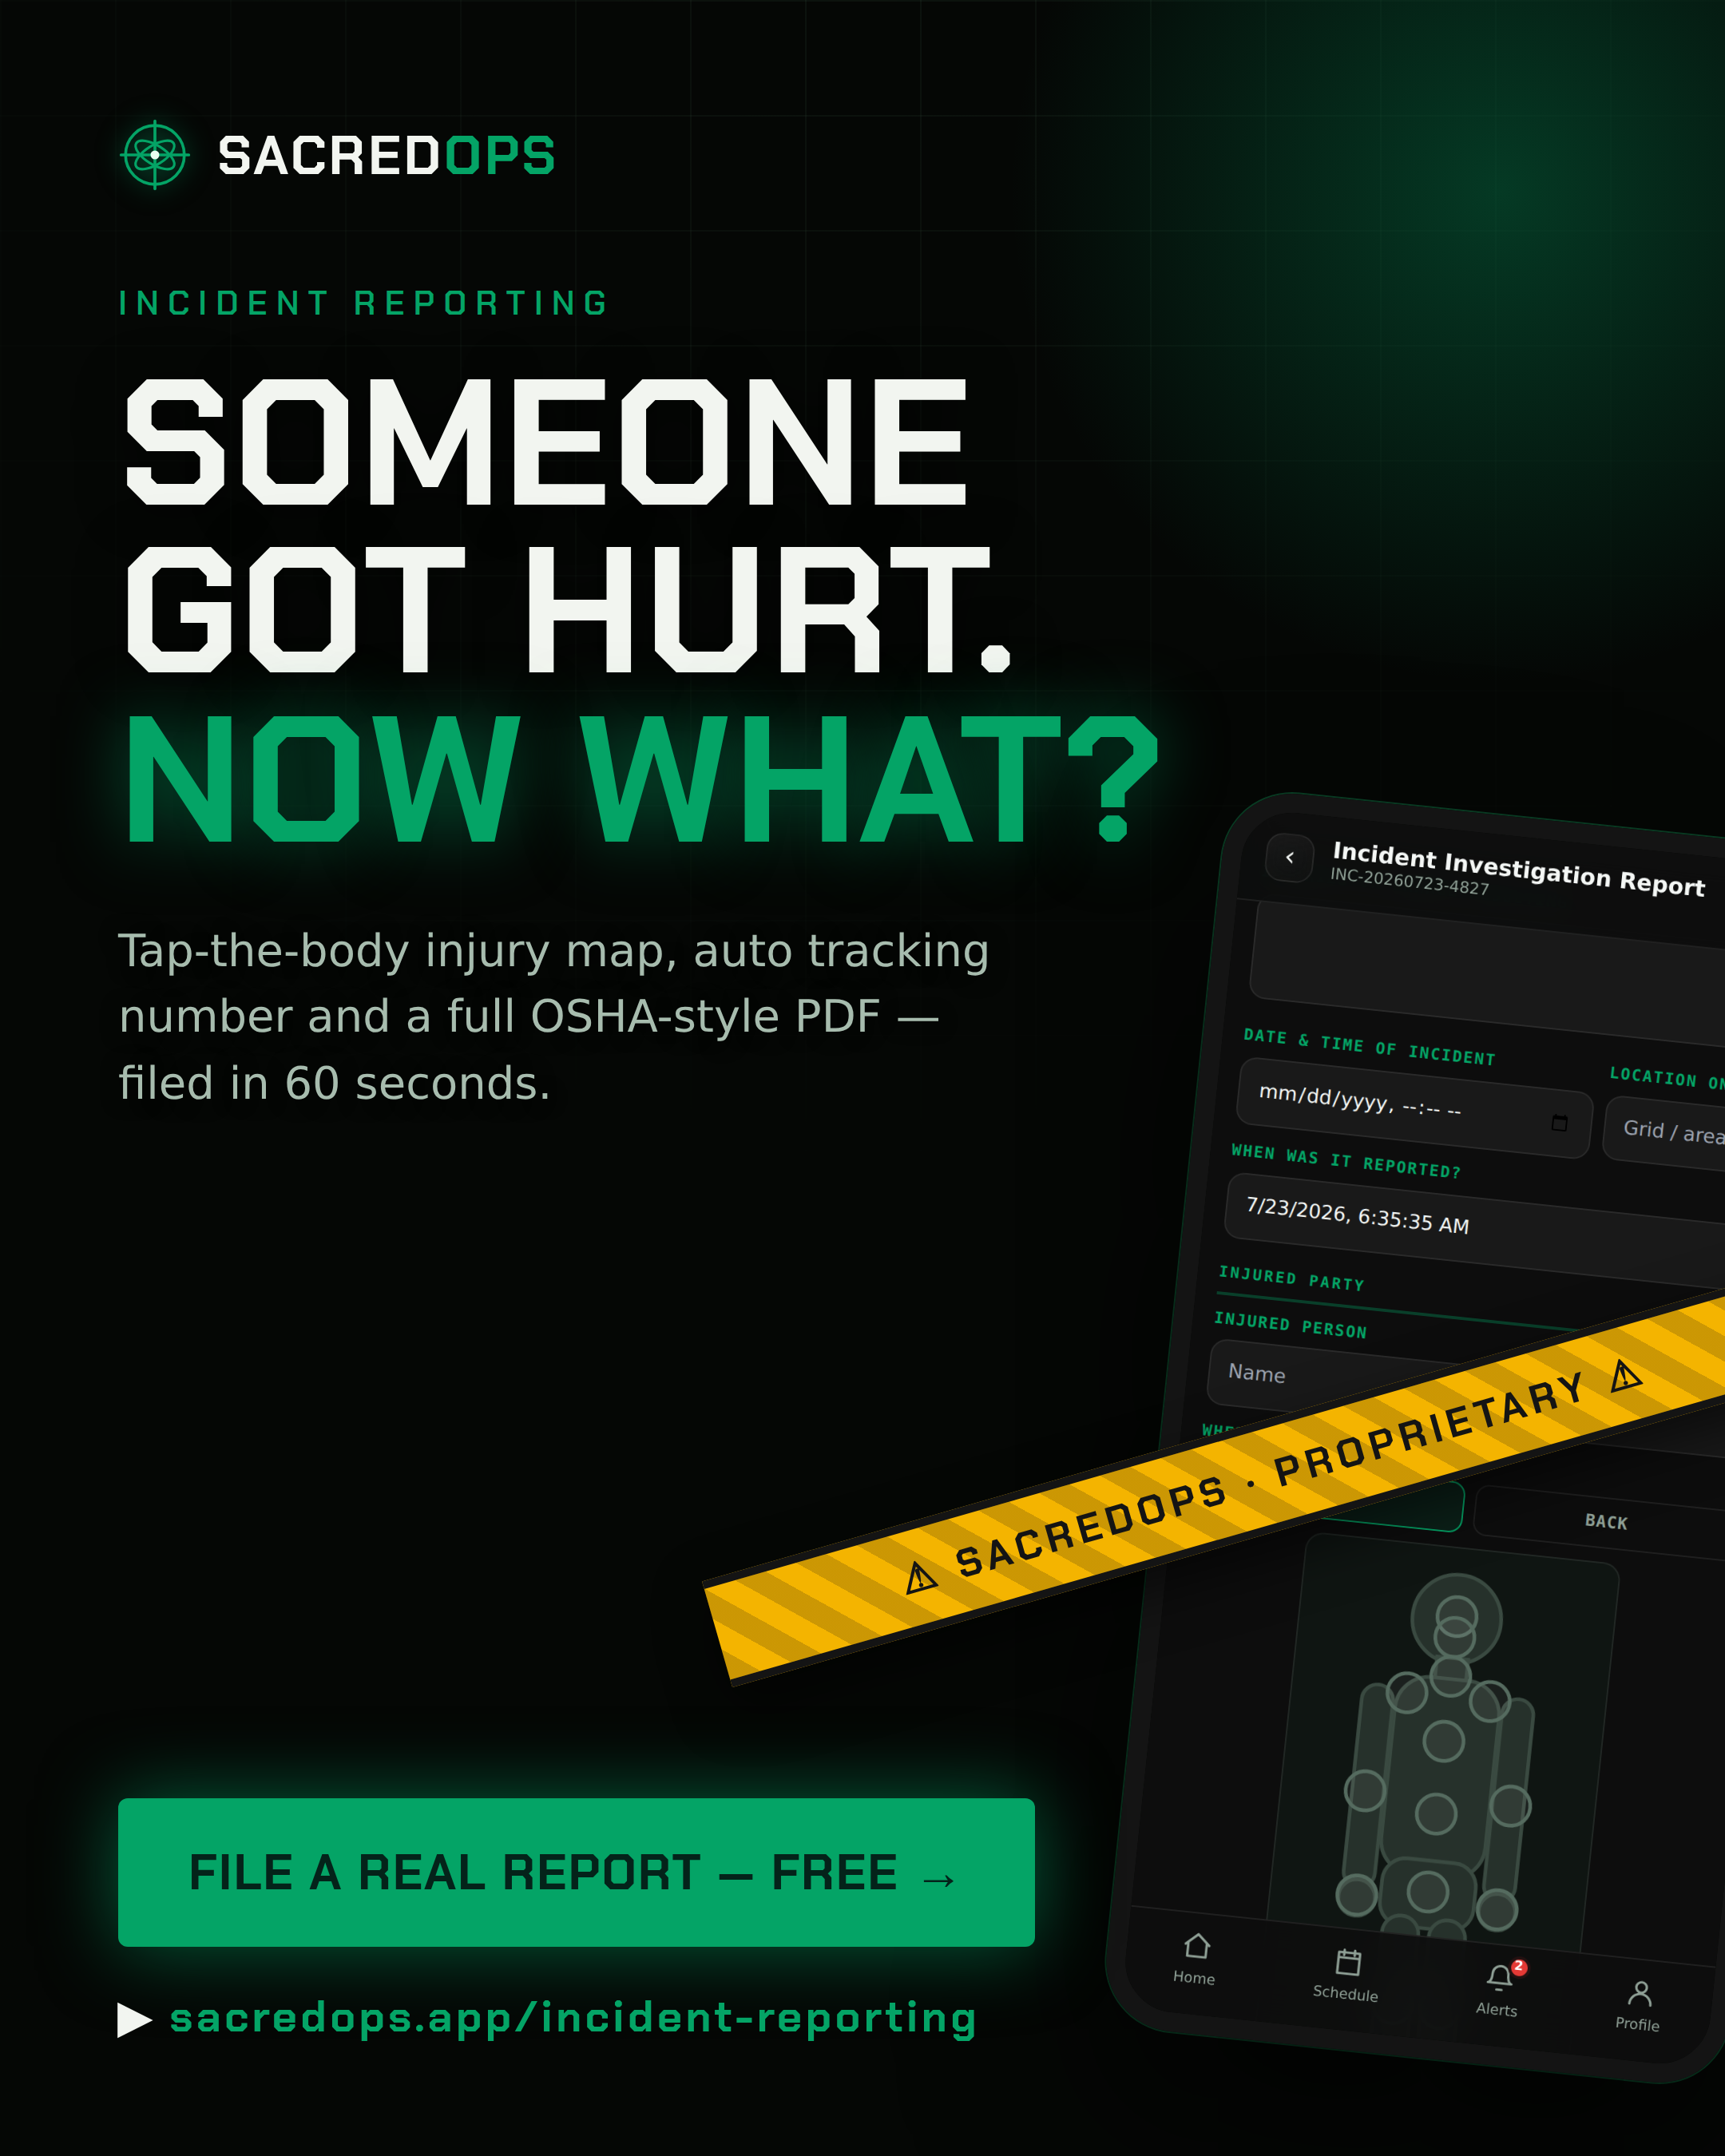
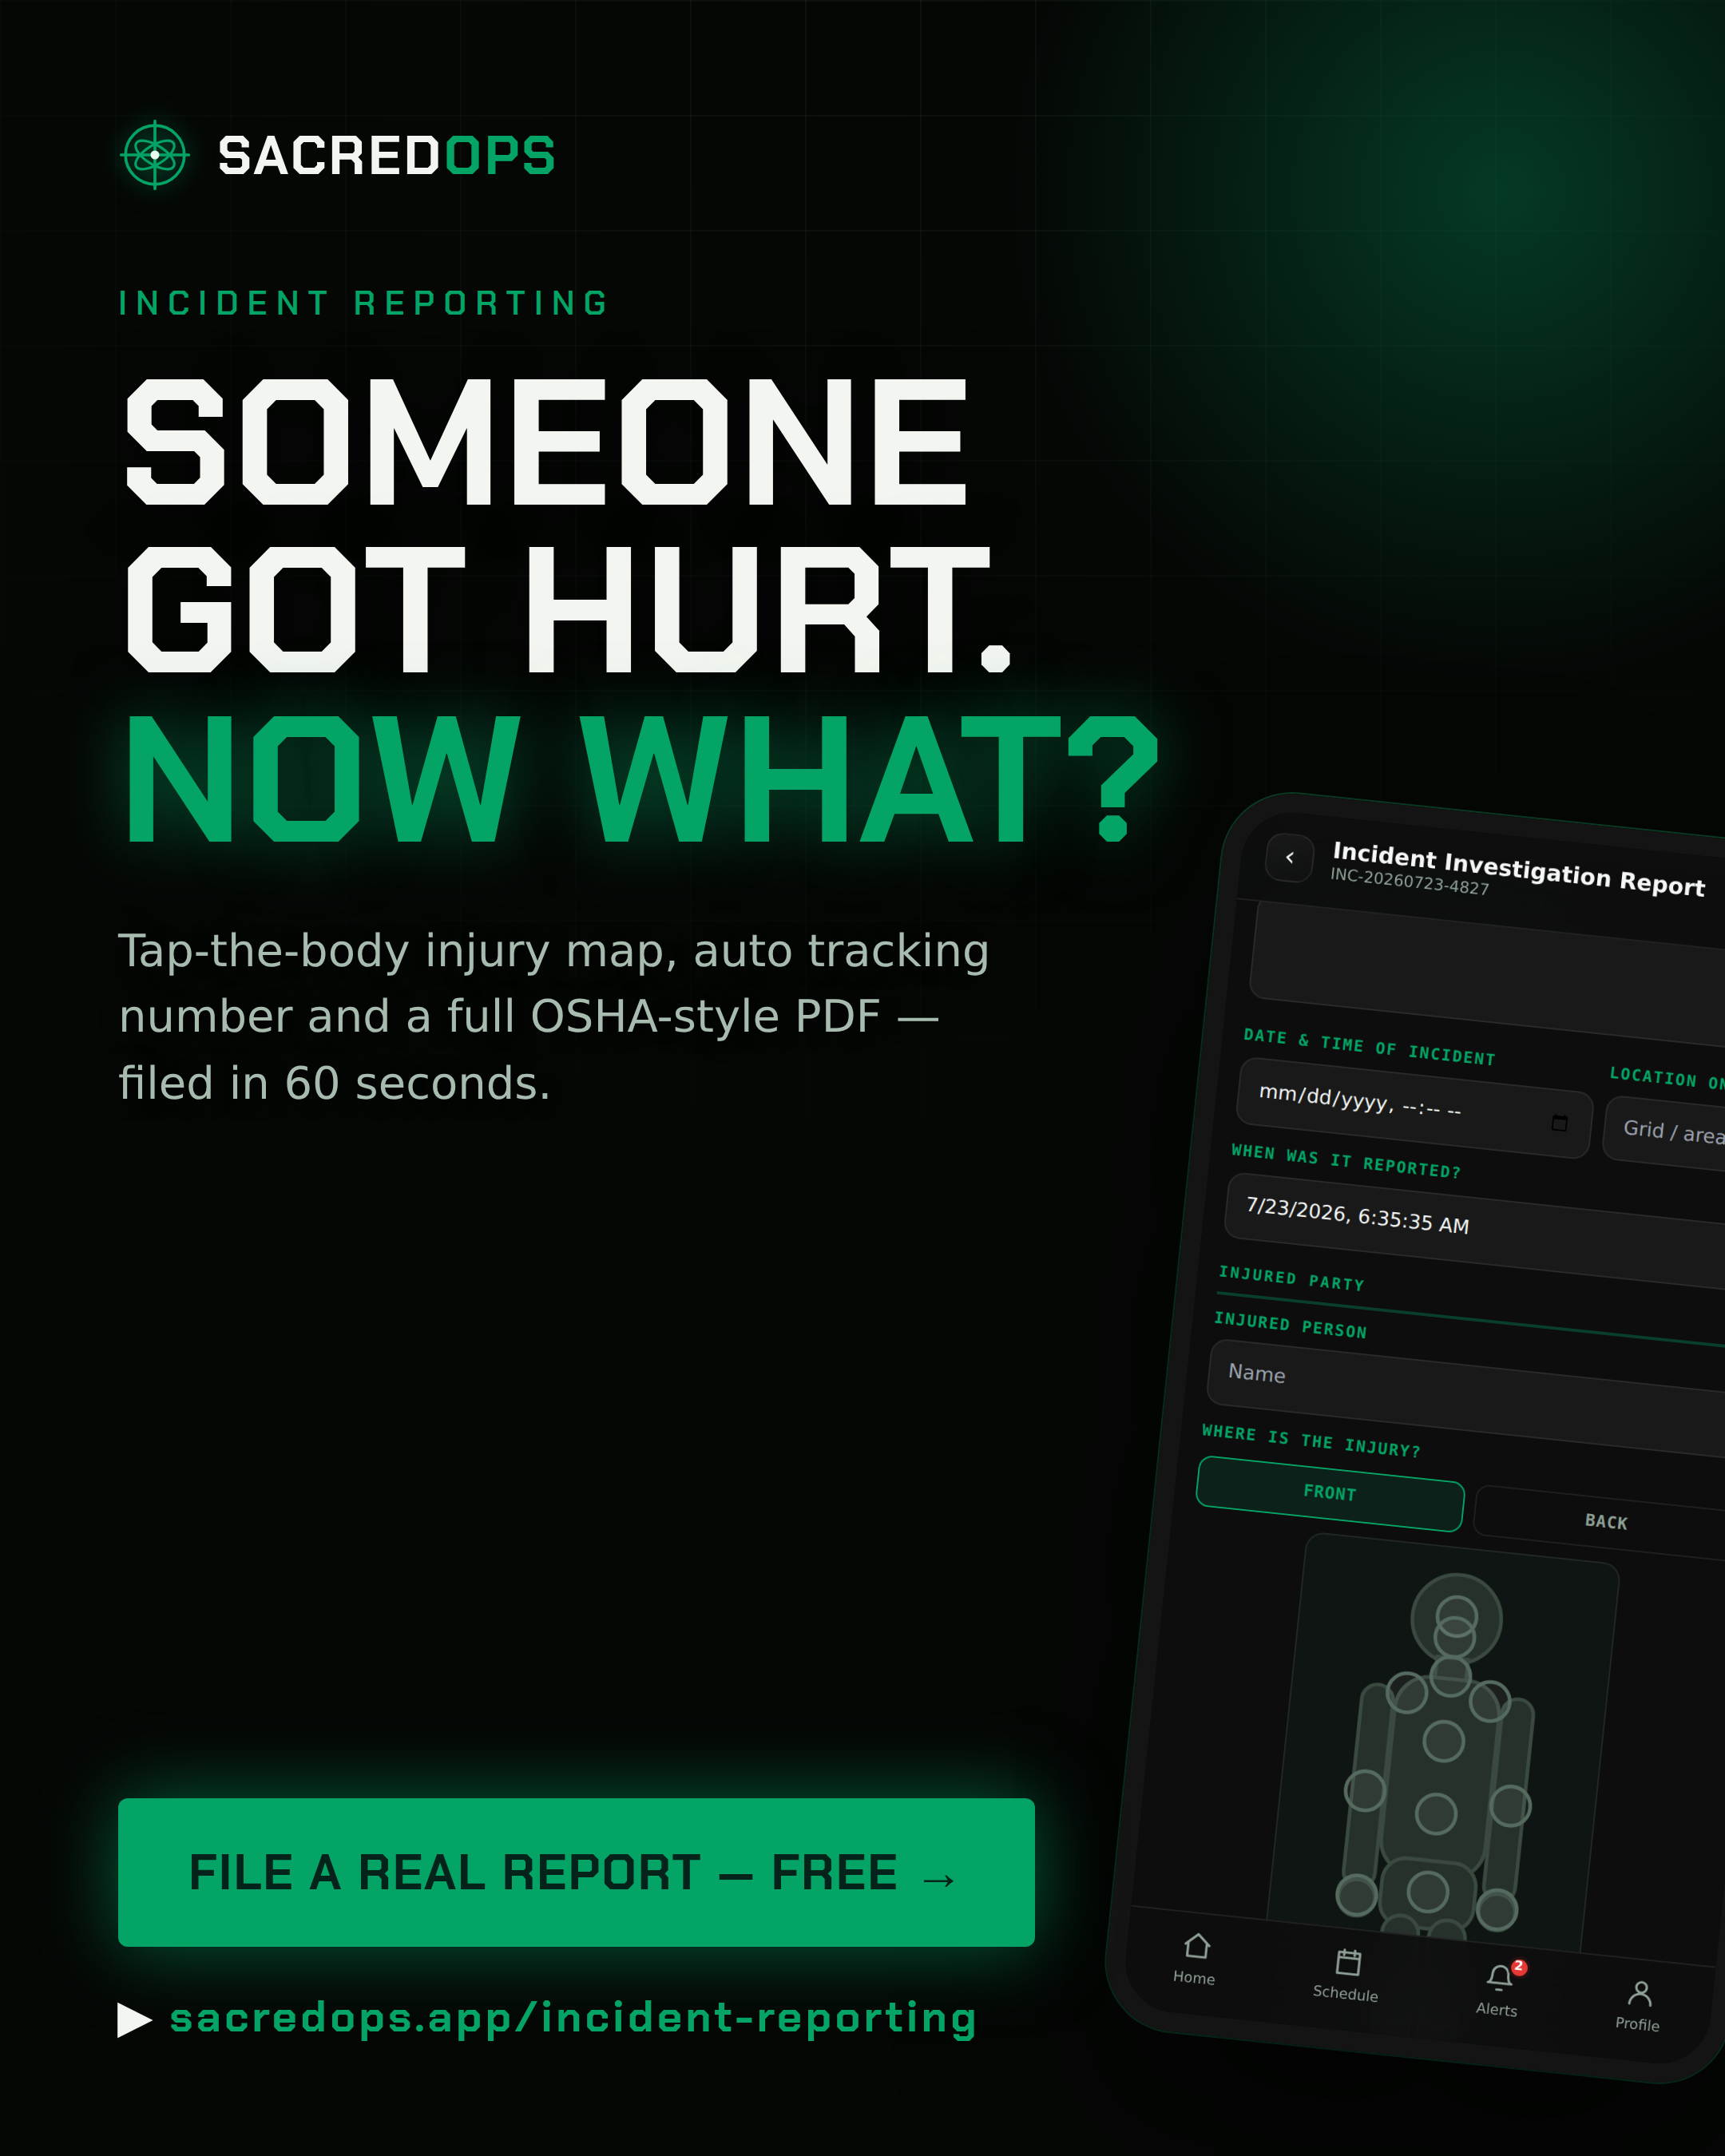
marketing: remove caution-tape treatment everywhere
Drop the yellow/black 'Proprietary' caution-tape band from the site and
campaign-page screenshots and from the three ad creatives (regenerated
clean). Screenshots and the 'Try the live demo' chip remain.

Claude-Session: https://claude.ai/code/session_01FV7pzNdypq4hcmGjEeV6JE

Changed region(s): [[0.4032, 0.5911, 1.0, 0.7778]]

diff --git a/public/StIsidore.html b/public/StIsidore.html
@@ -117,13 +117,6 @@
   .shot.lift{transform:translateY(22px)}
   @media(max-width:880px){.shot.lift{transform:none}}
   .shot .phone-shot{transform:none}
-  .shot-tape{position:absolute;top:41%;left:-18%;right:-18%;z-index:3;transform:rotate(-11deg);
-    background:#f4b400;color:#141414;font-family:var(--display);font-weight:800;font-size:11px;
-    letter-spacing:.12em;text-transform:uppercase;white-space:nowrap;overflow:hidden;text-align:center;
-    padding:7px 0;pointer-events:none;
-    box-shadow:0 8px 22px rgba(0,0,0,.55);
-    border-top:3px solid #141414;border-bottom:3px solid #141414;
-    background-image:repeating-linear-gradient(45deg,rgba(20,20,20,.16) 0 9px,transparent 9px 18px)}
   .shot-more{position:absolute;left:7px;right:7px;bottom:7px;z-index:2;border-radius:0 0 20px 20px;
     padding:60px 10px 14px;text-decoration:none;
     background:linear-gradient(to top,rgba(13,13,13,.97) 34%,rgba(13,13,13,0));
@@ -479,12 +472,10 @@ src="https://www.facebook.com/tr?id=1573862441061857&ev=PageView&noscript=1"/></
       <div class="phones">
         <span class="shot">
           <img class="phone-shot" src="/shots/sup-home.png" alt="SacredOps supervisor dashboard — live projects and compliance" loading="lazy" width="224">
-          <span class="shot-tape" aria-hidden="true">⚠ Proprietary · SacredOps ⚠</span>
           <a class="shot-more" href="https://demo.sacredops.app/">🔒 See it live in the demo →</a>
         </span>
         <span class="shot lift">
           <img class="phone-shot" src="/shots/sup-training.png" alt="SacredOps training tracker — worker certifications and expirations" loading="lazy" width="224">
-          <span class="shot-tape" aria-hidden="true">⚠ Proprietary · SacredOps ⚠</span>
           <a class="shot-more" href="https://demo.sacredops.app/">🔒 See it live in the demo →</a>
         </span>
       </div>
@@ -520,12 +511,10 @@ src="https://www.facebook.com/tr?id=1573862441061857&ev=PageView&noscript=1"/></
       <div class="phones">
         <span class="shot">
           <img class="phone-shot" src="/shots/wrk-home.png" alt="SacredOps worker portal home" loading="lazy" width="224">
-          <span class="shot-tape" aria-hidden="true">⚠ Proprietary · SacredOps ⚠</span>
           <a class="shot-more" href="https://demo.sacredops.app/">🔒 See it live in the demo →</a>
         </span>
         <span class="shot lift">
           <img class="phone-shot" src="/shots/wrk-incident.png" alt="SacredOps worker incident report with body diagram" loading="lazy" width="224">
-          <span class="shot-tape" aria-hidden="true">⚠ Proprietary · SacredOps ⚠</span>
           <a class="shot-more" href="https://demo.sacredops.app/">🔒 See it live in the demo →</a>
         </span>
       </div>

diff --git a/public/StMichael.html b/public/StMichael.html
@@ -117,13 +117,6 @@
   .shot.lift{transform:translateY(22px)}
   @media(max-width:880px){.shot.lift{transform:none}}
   .shot .phone-shot{transform:none}
-  .shot-tape{position:absolute;top:41%;left:-18%;right:-18%;z-index:3;transform:rotate(-11deg);
-    background:#f4b400;color:#141414;font-family:var(--display);font-weight:800;font-size:11px;
-    letter-spacing:.12em;text-transform:uppercase;white-space:nowrap;overflow:hidden;text-align:center;
-    padding:7px 0;pointer-events:none;
-    box-shadow:0 8px 22px rgba(0,0,0,.55);
-    border-top:3px solid #141414;border-bottom:3px solid #141414;
-    background-image:repeating-linear-gradient(45deg,rgba(20,20,20,.16) 0 9px,transparent 9px 18px)}
   .shot-more{position:absolute;left:7px;right:7px;bottom:7px;z-index:2;border-radius:0 0 20px 20px;
     padding:60px 10px 14px;text-decoration:none;
     background:linear-gradient(to top,rgba(13,13,13,.97) 34%,rgba(13,13,13,0));
@@ -479,12 +472,10 @@ src="https://www.facebook.com/tr?id=1573862441061857&ev=PageView&noscript=1"/></
       <div class="phones">
         <span class="shot">
           <img class="phone-shot" src="/shots/sup-home.png" alt="SacredOps supervisor dashboard — live projects and compliance" loading="lazy" width="224">
-          <span class="shot-tape" aria-hidden="true">⚠ Proprietary · SacredOps ⚠</span>
           <a class="shot-more" href="https://demo.sacredops.app/">🔒 See it live in the demo →</a>
         </span>
         <span class="shot lift">
           <img class="phone-shot" src="/shots/sup-training.png" alt="SacredOps training tracker — worker certifications and expirations" loading="lazy" width="224">
-          <span class="shot-tape" aria-hidden="true">⚠ Proprietary · SacredOps ⚠</span>
           <a class="shot-more" href="https://demo.sacredops.app/">🔒 See it live in the demo →</a>
         </span>
       </div>
@@ -520,12 +511,10 @@ src="https://www.facebook.com/tr?id=1573862441061857&ev=PageView&noscript=1"/></
       <div class="phones">
         <span class="shot">
           <img class="phone-shot" src="/shots/wrk-home.png" alt="SacredOps worker portal home" loading="lazy" width="224">
-          <span class="shot-tape" aria-hidden="true">⚠ Proprietary · SacredOps ⚠</span>
           <a class="shot-more" href="https://demo.sacredops.app/">🔒 See it live in the demo →</a>
         </span>
         <span class="shot lift">
           <img class="phone-shot" src="/shots/wrk-incident.png" alt="SacredOps worker incident report with body diagram" loading="lazy" width="224">
-          <span class="shot-tape" aria-hidden="true">⚠ Proprietary · SacredOps ⚠</span>
           <a class="shot-more" href="https://demo.sacredops.app/">🔒 See it live in the demo →</a>
         </span>
       </div>

diff --git a/public/opStTherese.html b/public/opStTherese.html
@@ -117,13 +117,6 @@
   .shot.lift{transform:translateY(22px)}
   @media(max-width:880px){.shot.lift{transform:none}}
   .shot .phone-shot{transform:none}
-  .shot-tape{position:absolute;top:41%;left:-18%;right:-18%;z-index:3;transform:rotate(-11deg);
-    background:#f4b400;color:#141414;font-family:var(--display);font-weight:800;font-size:11px;
-    letter-spacing:.12em;text-transform:uppercase;white-space:nowrap;overflow:hidden;text-align:center;
-    padding:7px 0;pointer-events:none;
-    box-shadow:0 8px 22px rgba(0,0,0,.55);
-    border-top:3px solid #141414;border-bottom:3px solid #141414;
-    background-image:repeating-linear-gradient(45deg,rgba(20,20,20,.16) 0 9px,transparent 9px 18px)}
   .shot-more{position:absolute;left:7px;right:7px;bottom:7px;z-index:2;border-radius:0 0 20px 20px;
     padding:60px 10px 14px;text-decoration:none;
     background:linear-gradient(to top,rgba(13,13,13,.97) 34%,rgba(13,13,13,0));
@@ -479,12 +472,10 @@ src="https://www.facebook.com/tr?id=1573862441061857&ev=PageView&noscript=1"/></
       <div class="phones">
         <span class="shot">
           <img class="phone-shot" src="/shots/sup-home.png" alt="SacredOps supervisor dashboard — live projects and compliance" loading="lazy" width="224">
-          <span class="shot-tape" aria-hidden="true">⚠ Proprietary · SacredOps ⚠</span>
           <a class="shot-more" href="https://demo.sacredops.app/">🔒 See it live in the demo →</a>
         </span>
         <span class="shot lift">
           <img class="phone-shot" src="/shots/sup-training.png" alt="SacredOps training tracker — worker certifications and expirations" loading="lazy" width="224">
-          <span class="shot-tape" aria-hidden="true">⚠ Proprietary · SacredOps ⚠</span>
           <a class="shot-more" href="https://demo.sacredops.app/">🔒 See it live in the demo →</a>
         </span>
       </div>
@@ -520,12 +511,10 @@ src="https://www.facebook.com/tr?id=1573862441061857&ev=PageView&noscript=1"/></
       <div class="phones">
         <span class="shot">
           <img class="phone-shot" src="/shots/wrk-home.png" alt="SacredOps worker portal home" loading="lazy" width="224">
-          <span class="shot-tape" aria-hidden="true">⚠ Proprietary · SacredOps ⚠</span>
           <a class="shot-more" href="https://demo.sacredops.app/">🔒 See it live in the demo →</a>
         </span>
         <span class="shot lift">
           <img class="phone-shot" src="/shots/wrk-incident.png" alt="SacredOps worker incident report with body diagram" loading="lazy" width="224">
-          <span class="shot-tape" aria-hidden="true">⚠ Proprietary · SacredOps ⚠</span>
           <a class="shot-more" href="https://demo.sacredops.app/">🔒 See it live in the demo →</a>
         </span>
       </div>

diff --git a/public/site.html b/public/site.html
@@ -116,13 +116,6 @@
   .shot.lift{transform:translateY(22px)}
   @media(max-width:880px){.shot.lift{transform:none}}
   .shot .phone-shot{transform:none}
-  .shot-tape{position:absolute;top:41%;left:-18%;right:-18%;z-index:3;transform:rotate(-11deg);
-    background:#f4b400;color:#141414;font-family:var(--display);font-weight:800;font-size:11px;
-    letter-spacing:.12em;text-transform:uppercase;white-space:nowrap;overflow:hidden;text-align:center;
-    padding:7px 0;pointer-events:none;
-    box-shadow:0 8px 22px rgba(0,0,0,.55);
-    border-top:3px solid #141414;border-bottom:3px solid #141414;
-    background-image:repeating-linear-gradient(45deg,rgba(20,20,20,.16) 0 9px,transparent 9px 18px)}
   .shot-more{position:absolute;left:7px;right:7px;bottom:7px;z-index:2;border-radius:0 0 20px 20px;
     padding:60px 10px 14px;text-decoration:none;
     background:linear-gradient(to top,rgba(13,13,13,.97) 34%,rgba(13,13,13,0));
@@ -477,12 +470,10 @@ src="https://www.facebook.com/tr?id=1573862441061857&ev=PageView&noscript=1"/></
       <div class="phones">
         <span class="shot">
           <img class="phone-shot" src="/shots/sup-home.png" alt="SacredOps supervisor dashboard — live projects and compliance" loading="lazy" width="224">
-          <span class="shot-tape" aria-hidden="true">⚠ Proprietary · SacredOps ⚠</span>
           <a class="shot-more" href="/supervisors">▶ Try the live demo →</a>
         </span>
         <span class="shot lift">
           <img class="phone-shot" src="/shots/sup-training.png" alt="SacredOps training tracker — worker certifications and expirations" loading="lazy" width="224">
-          <span class="shot-tape" aria-hidden="true">⚠ Proprietary · SacredOps ⚠</span>
           <a class="shot-more" href="/supervisors">▶ Try the live demo →</a>
         </span>
       </div>
@@ -520,12 +511,10 @@ src="https://www.facebook.com/tr?id=1573862441061857&ev=PageView&noscript=1"/></
       <div class="phones">
         <span class="shot">
           <img class="phone-shot" src="/shots/wrk-home.png" alt="SacredOps worker portal home" loading="lazy" width="224">
-          <span class="shot-tape" aria-hidden="true">⚠ Proprietary · SacredOps ⚠</span>
           <a class="shot-more" href="/crews">▶ Try the live demo →</a>
         </span>
         <span class="shot lift">
           <img class="phone-shot" src="/shots/wrk-incident.png" alt="SacredOps worker incident report with body diagram" loading="lazy" width="224">
-          <span class="shot-tape" aria-hidden="true">⚠ Proprietary · SacredOps ⚠</span>
           <a class="shot-more" href="/crews">▶ Try the live demo →</a>
         </span>
       </div>